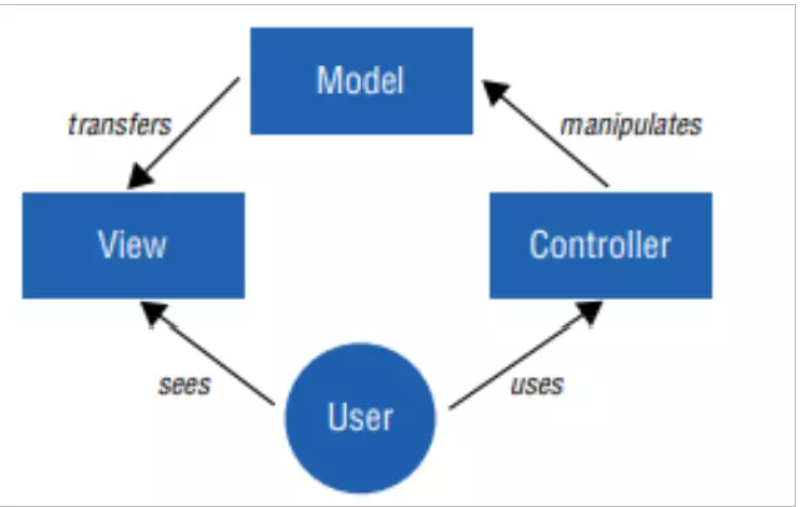
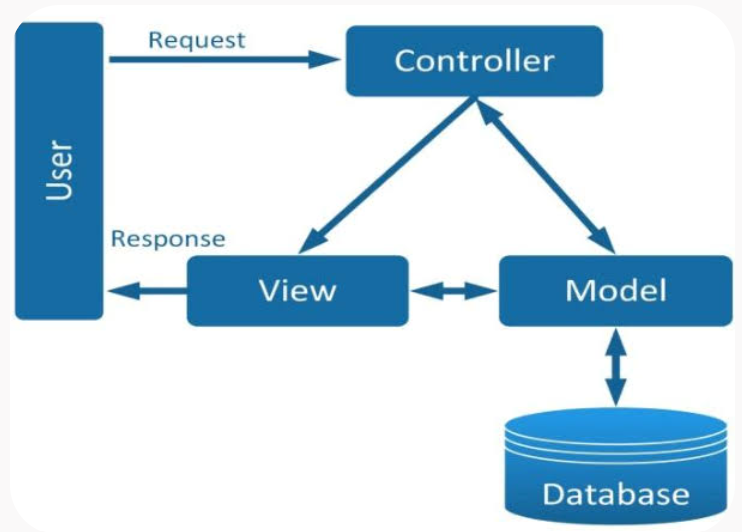
fix

diff --git a/Tài liệu chuẩn bị/Buoi6/Buoi6.md b/Tài liệu chuẩn bị/Buoi6/Buoi6.md
@@ -1,4 +1,4 @@
-````markdown
+
 # I. Spring Bean
 
 ## 1.1. Spring Bean và Spring IoC Container
@@ -100,35 +100,16 @@ Trả về **một đối tượng Bean riêng biệt cho mỗi lần sử dụn
 
 ## 1.3. Cách tạo Bean
 
-### Cấu hình dựa trên XML
-
-Là cách truyền thống của Spring.
-
 ### Cấu hình dựa trên Annotation
 
 Là cách phổ biến nhất hiện nay, định nghĩa Bean trên lớp Java bằng các Annotation.
 
-```java
-@Component
-```
 
 `@Component`: Annotation chung cho bất kỳ thành phần nào được Spring quản lý.
 
-```java
-@Service
-```
-
 `@Service`: Dùng cho các lớp **logic nghiệp vụ** (lớp Service).
 
-```java
-@Repository
-```
-
 `@Repository`: Dùng cho các lớp **truy cập dữ liệu** (lớp Repository/DAO).
-
-```java
-@Controller
-```
 
 `@Controller`: Dùng cho các lớp **xử lý yêu cầu web** (lớp Controller).
 
@@ -155,42 +136,20 @@ public class AppConfig {
 
 ## 1.4. Vòng đời Bean
 
-### 1. Instantiation
-
-Spring Container **tạo instance của Bean**.
-
-### 2. Populate Properties
-
-Spring **tiêm các phụ thuộc (DI)**.
-
-### 3. Initialization
-
-Gọi các **callback khởi tạo**.
-
-Đây là nơi bạn có thể thực hiện các công việc thiết lập cần thiết sau khi Bean đã được tạo và các phụ thuộc đã được tiêm.
-
-Ví dụ:
-
-* Mở kết nối
-* Nạp bộ nhớ đệm (cache)
-
-### 4. Ready for Use
-
-Bean đã **sẵn sàng để sử dụng** và nằm trong Container, chờ được sử dụng.
-
-### 5. Destruction
-
-Khi Container đóng lại, Spring gọi các **callback hủy**.
-
-Đây là nơi bạn có thể thực hiện các công việc dọn dẹp.
-
-Ví dụ:
-
-* Đóng kết nối
-* Giải phóng tài nguyên
-
-
 ![put here](img1.png)
+
+### 1. 
+Khi IoC Container tìm thấy một Bean cần quản lý, nó sẽ khởi tạo bằng Constructor
+### 2.
+Spring tiêm phụ thuộc (Inject dependencies) vào Bean và thực hiện các quá trình cài đặt khác vào Bean như setBeanName, setBeanClassLoader, v.v..
+### 3.
+Hàm đánh dấu @PostConstruct được gọi
+Tiền xử lý sau khi @PostConstruct được gọi.
+### 4.
+Bean sẵn sàng để hoạt động
+### 5.
+Nếu IoC Container không quản lý bean nữa hoặc bị shutdown nó sẽ gọi hàm @PreDestroy trong Bean
+Xóa Bean.
 
 
 # II. Spring MVC
@@ -211,17 +170,9 @@ Nó đánh dấu một class làm nhiệm vụ:
 - Điều hướng logic.
 - Trả về giao diện.
 
-> **Lưu ý:** `@Controller` là một dạng chuyên biệt của `@Component`, vì vậy class được đánh dấu `@Controller` có thể được Spring tự động phát hiện và quản lý bởi IoC Container.
-
 ### Thymeleaf
 
-**Thymeleaf** là một **Java Template Engine**.
-
-Nó có nhiệm vụ xử lý và **sinh ra (generate)** các file như:
-
-- HTML
-- XML
-- ...
+Java template engine là công cụ "lắp ráp" dữ liệu động từ Java backend với các file template như HTML để tạo ra giao diện web hoàn chỉnh hiển thị cho người dùng. **Thymeleaf** là một **Java Template Engine** cho phép file HTML hiển thị bình thường ngay cả khi mở trực tiếp bằng trình duyệt.
 
 Các file HTML do Thymeleaf tạo ra là kết quả của việc kết hợp:
 
@@ -234,11 +185,17 @@ Quy tắc xử lý
 ↓
 File HTML hoàn chỉnh
 
-
-
 ````
 
 ![put here](img3.png)
+
+
+
+Model chứa dữ liệu name: "Loda"
+
+file hello.htm có  cú pháp th:text="'Hello, ' + ${name}"
+
+-> Thymeleaf sẽ lấy giá trị "Loda" từ Model đắp vào biến ${name} sau đó biên dịch toàn bộ thành mã HTML
 
 ---
 
@@ -352,7 +309,7 @@ Tên Bean mặc định: "myRepository"
 
 **Meta-annotation** là một annotation được tạo thành từ nhiều annotation khác.
 
-Annotation này thường được đặt tại class chứa hàm `main`.
+Do dùng để đánh dấu main class nhằm khởi động, tự động cấu hình và quét các components cho toàn bộ ứng dụng nên Annotation này thường được đặt tại class chứa hàm `main`.
 
 ```java
 @SpringBootApplication
@@ -369,7 +326,6 @@ public class Application {
 ### 1. @SpringBootConfiguration
 
 Đánh dấu class là **nguồn cung cấp các định nghĩa Bean** cho Spring Container.
-
 Nó cho phép định nghĩa Bean trực tiếp bên trong class ứng dụng.
 
 ---
@@ -377,23 +333,13 @@ Nó cho phép định nghĩa Bean trực tiếp bên trong class ứng dụng.
 ### 2. @EnableAutoConfiguration
 
 Bật cơ chế **tự động cấu hình** của Spring Boot.
-
 Spring Boot sẽ tự động cấu hình các Bean dựa trên những thư viện và dependency có trong **classpath**.
 
 ---
 
 ### 3. @ComponentScan
 
-Bật cơ chế **quét các thành phần của Spring** như:
-
-```text
-@Controller
-@Service
-@Repository
-@Component
-```
-
-Spring sẽ quét trong **package chứa class chính** và các **package con** của nó để tìm các thành phần được đánh dấu bằng các annotation trên.
+Quét các bean và component (@Component, @Service, @Repository, @Controller...) trong package hiện tại và các package con để đưa vào Spring IoC Container quản lý
 
 ---
 
